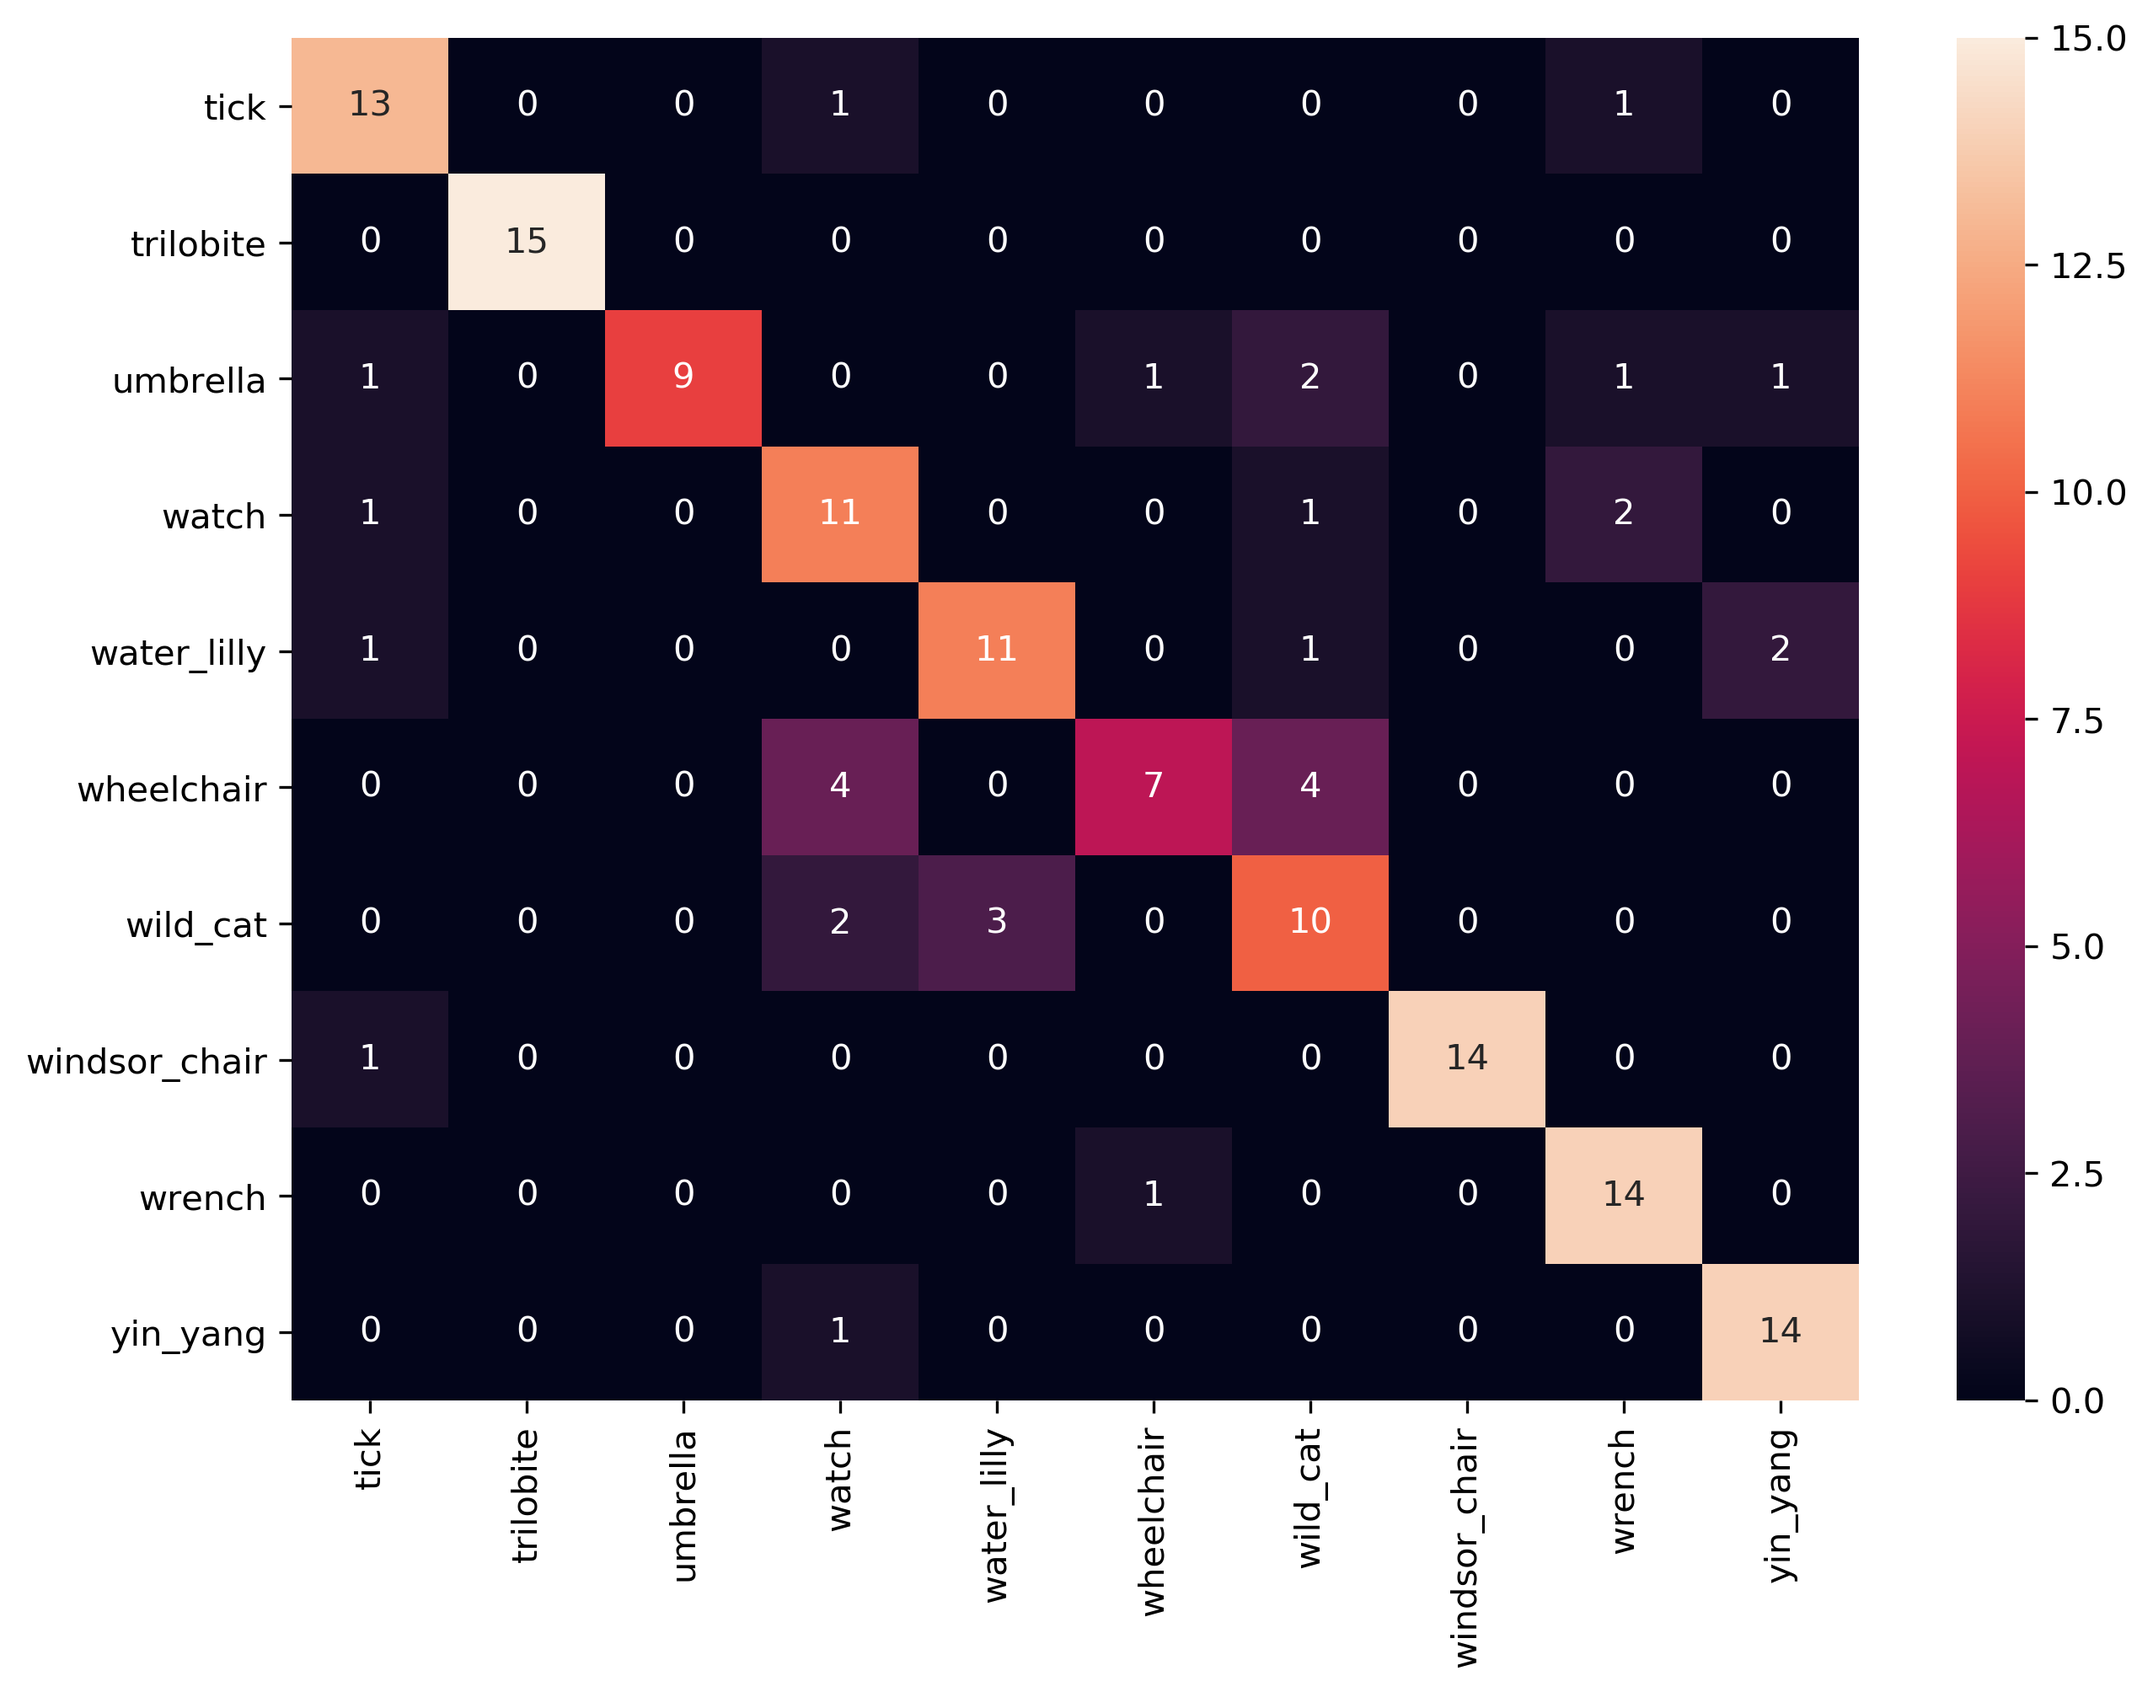
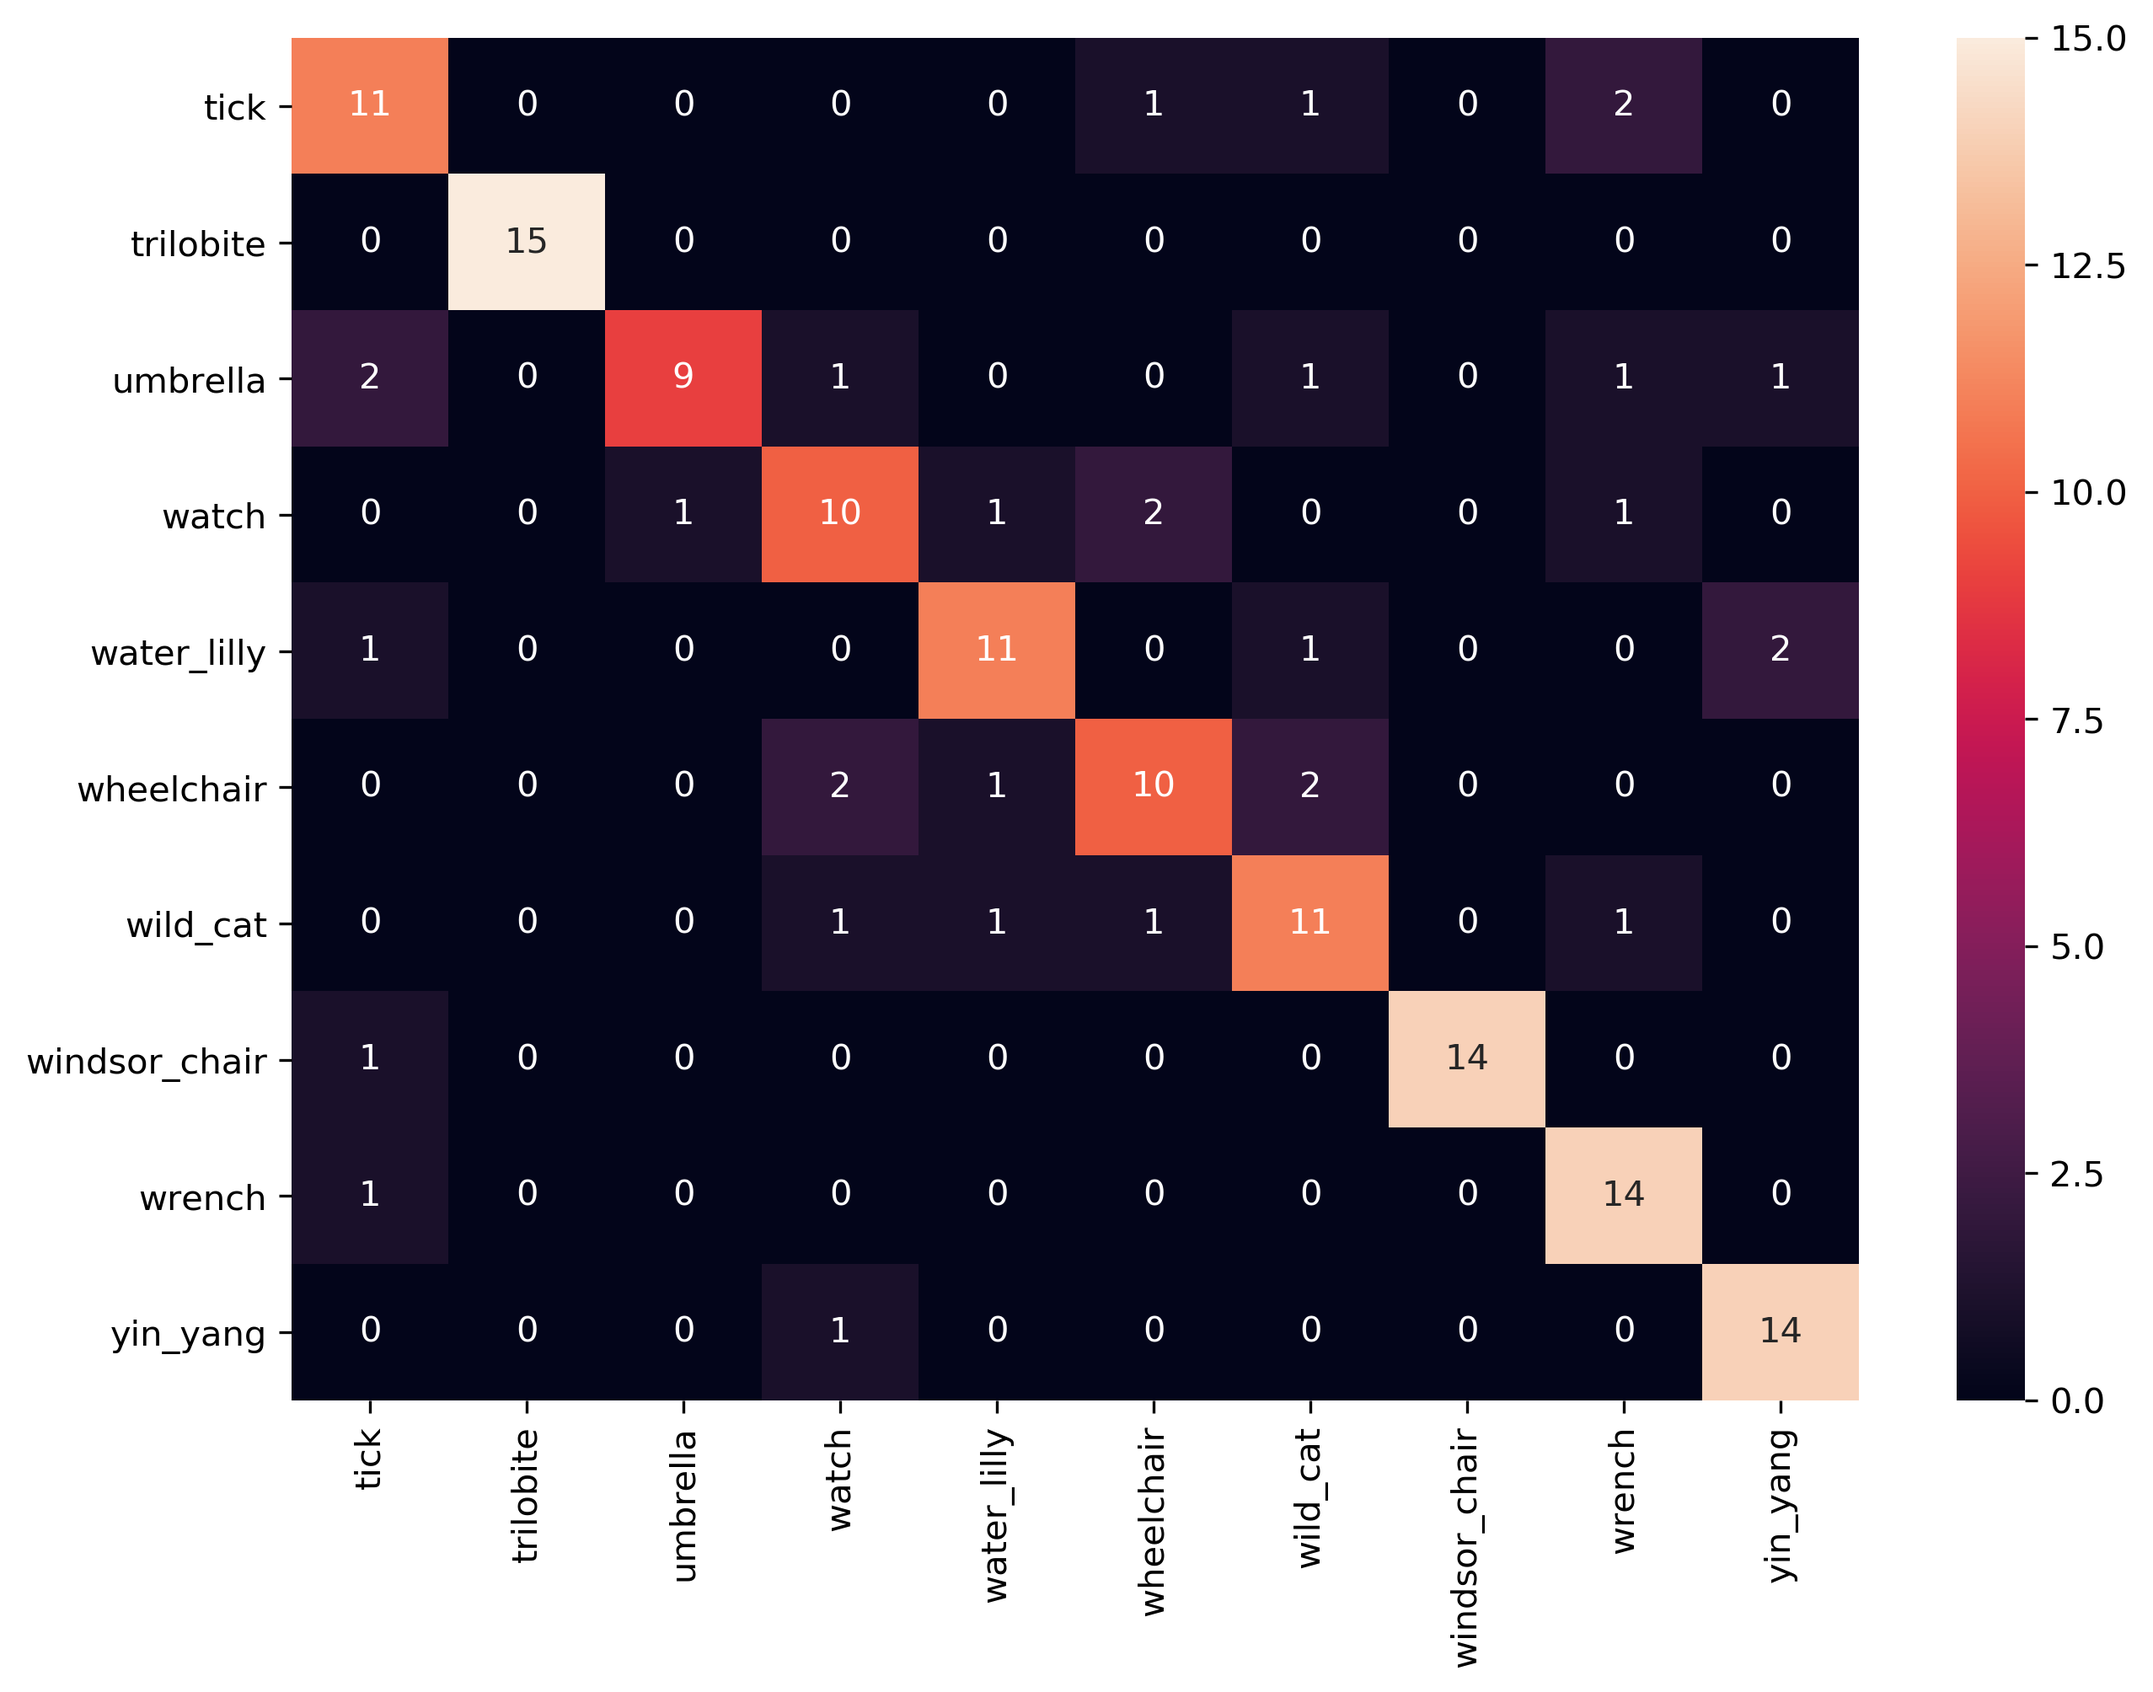
Confusion matrix 2

diff --git a/plot_quantization.py b/plot_quantization.py
@@ -15,47 +15,27 @@ imgIdx = scipy.io.loadmat('matlab_data/imgIdx.mat')['imgIdx'].T
 imgIdx_tr = scipy.io.loadmat('matlab_data/imgIdx_tr.mat')['imgIdx_tr'].T
 imgIdx_te = scipy.io.loadmat('matlab_data/imgIdx_te.mat')['imgIdx_te'].T
 
-image_name = 'RF_2019/Caltech_101/101_ObjectCategories/tick/image_0002.jpg'
-img = cv2.imread('RF_2019/Caltech_101/101_ObjectCategories/wild_cat/image_0001.jpg',cv2.IMREAD_GRAYSCALE)
+img = cv2.imread('RF_2019/Caltech_101/101_ObjectCategories/wild_cat/image_0009.jpg',cv2.IMREAD_GRAYSCALE)
+img2 = cv2.imread('RF_2019/Caltech_101/101_ObjectCategories/wild_cat/image_0014.jpg',cv2.IMREAD_GRAYSCALE)
+
+plt.subplot(121)
+plt.imshow(img, cmap=plt.cm.gray)
+plt.axis('off')
+plt.subplot(122)
+plt.imshow(img2, cmap=plt.cm.gray)
+plt.axis('off')
+plt.savefig('example_success.jpg', dpi=300, bbox_inches='tight')
+plt.show()
+import pdb; pdb.set_trace()
+
+
 n_clusters = 5
 np.random.seed(0)
-
-# X = img.reshape((-1, 1))  # We need an (n_sample, n_feature) array
-# k_means = cluster.KMeans(n_clusters=n_clusters, n_init=4)
-# k_means.fit(X)
-# X_compressed = k_means.transform(X)
-# import pdb; pdb.set_trace()
-# values = k_means.cluster_centers_.squeeze()
-# labels = k_means.labels_
 
 face = img
 n_clusters = 2 
 k_means = cluster.KMeans(n_clusters=n_clusters)
-# X_1 = face[:,:,0].reshape((-1, 1))  # We need an (n_sample, n_feature) array
-# X_2 = face[:,:,1].reshape((-1, 1))  # We need an (n_sample, n_feature) array
-# X_3 = face[:,:,2].reshape((-1, 1))  # We need an (n_sample, n_feature) array
-# k_means_1 = cluster.KMeans(n_clusters=n_clusters)
-# k_means_1.fit(X_1)
-# k_means_2 = cluster.KMeans(n_clusters=n_clusters)
-# k_means_2.fit(X_2)
-# k_means_3 = cluster.KMeans(n_clusters=n_clusters)
-# k_means_3.fit(X_3)
-# face_compressed_1 = k_means_1.transform(X_1)[:,0].reshape(face[:,:,0].shape)
-# face_compressed_2 = k_means_2.transform(X_2)[:,0].reshape(face[:,:,1].shape)
-# face_compressed_3 = k_means_3.transform(X_3)[:,0].reshape(face[:,:,2].shape)
-# face_compressed = np.zeros((face.shape))
-# face_compressed[:,:,0] = face_compressed_1
-# face_compressed[:,:,1] = face_compressed_2
-# face_compressed[:,:,2] = face_compressed_3
 face_compressed = k_means.fit_transform(face.reshape((-1, 1)))[:,0].reshape(face.shape)
-# values = k_means.cluster_centers_.squeeze()
-# labels = k_means.labels_
-
-# create an array from labels and values
-# b = np.array(values)
-# face_compressed = b[range(len(labels)), labels]
-# face_compressed = np.choose(labels, values)
-# face_compressed.shape = face.shape
 
 vmin = face.min()
 vmax = face.max()

diff --git a/main.py b/main.py
@@ -344,7 +344,7 @@ def plot_rf_codebook():
     plt.show()
 
 def plot_confusion_matrix(desc_sel):
-    num_clusters = 350 
+    num_clusters = 400 
     n_estimators = 200
     max_features = num_clusters
     max_depth = 10
@@ -369,9 +369,20 @@ def plot_confusion_matrix(desc_sel):
     df_cm = pd.DataFrame(confusion, index = [i for i in classes],
                   columns = [i for i in classes])
     plt.figure(figsize = (10,7))
+    plt.subplot(121)
     sn.heatmap(df_cm, annot=True)
-    plt.savefig('confusion_matrix.png', bbox_inches='tight', dpi=300)
-    plt.show()
+    plt.savefig('confusion_matrix_ex2.png', bbox_inches='tight', dpi=300)
+    import pdb; pdb.set_trace()
+
+    data_train, data_test = rf_codebook(desc_tr,desc_te, desc_sizes, max_depth=max_depth, n_estimators=n_estimators, n_leafs=100)
+    RFC = ExtraTreesClassifier(n_estimators=75, criterion= 'entropy', bootstrap=False, max_features=256, max_depth=10, random_state=0, n_jobs=2)
+    training_data = data_train.reshape(150, n_estimators*n_leafs)
+    test_data = data_test.reshape(150, n_estimators*n_leafs)
+    preds, score, RFC_fit, time_list = fit_and_predict(RFC, training_data, train_labels, test_data, test_labels)
+    plt.subplot(122)
+    sn.heatmap(df_cm, annot=True)
+    plt.savefig('confusion_matrix_ex3.png', bbox_inches='tight', dpi=300)
+    import pdb; pdb.set_trace()
     return
 
 
